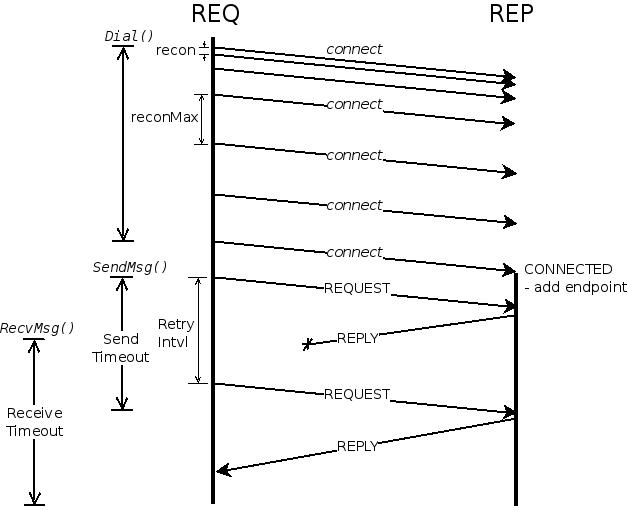
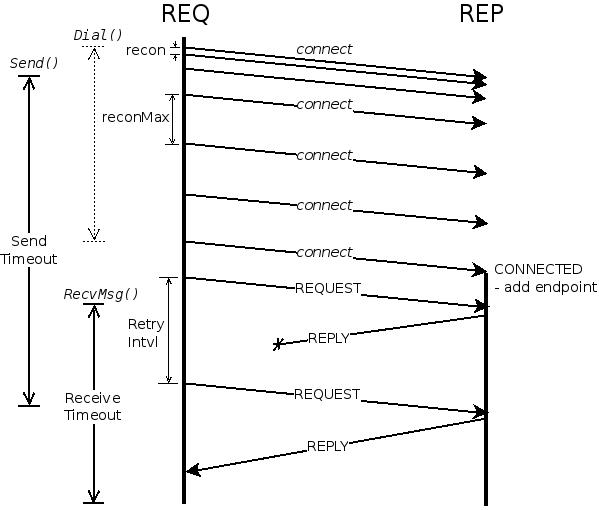
forgot that Dial() is asynchronous, and socket send operation is Send()

diff --git a/examples/reqrep/client-server/README.md b/examples/reqrep/client-server/README.md
@@ -34,8 +34,8 @@ The labels correspond to the following client/server _command-line options_:
  |-----------------|---------------------|----------------------------------------------|
  | recon           | `-recon`            | `Dial()` - Connection retry interval         |
  | reconMax        | `-reconMax`         | Maximum connection retry interval (backoff)  |
- | Retry Intvl     | `-retry`            | `SendMsg()` retry interval (REQ client only) |
- | Send Timeout    | `-send`             | `SendMsg()` message expiry deadline          |
+ | Retry Intvl     | `-retry`            | `Send()` retry interval (REQ client only)    |
+ | Send Timeout    | `-send`             | `Send()` message expiry deadline             |
  | Receive Timeout | `-recv`             | Maximum allowed wait time for `RecvMsg()`    |
  | -               | `-rq`               | Read queue length                            |
  | -               | `-wq`               | Write queue length                           |
